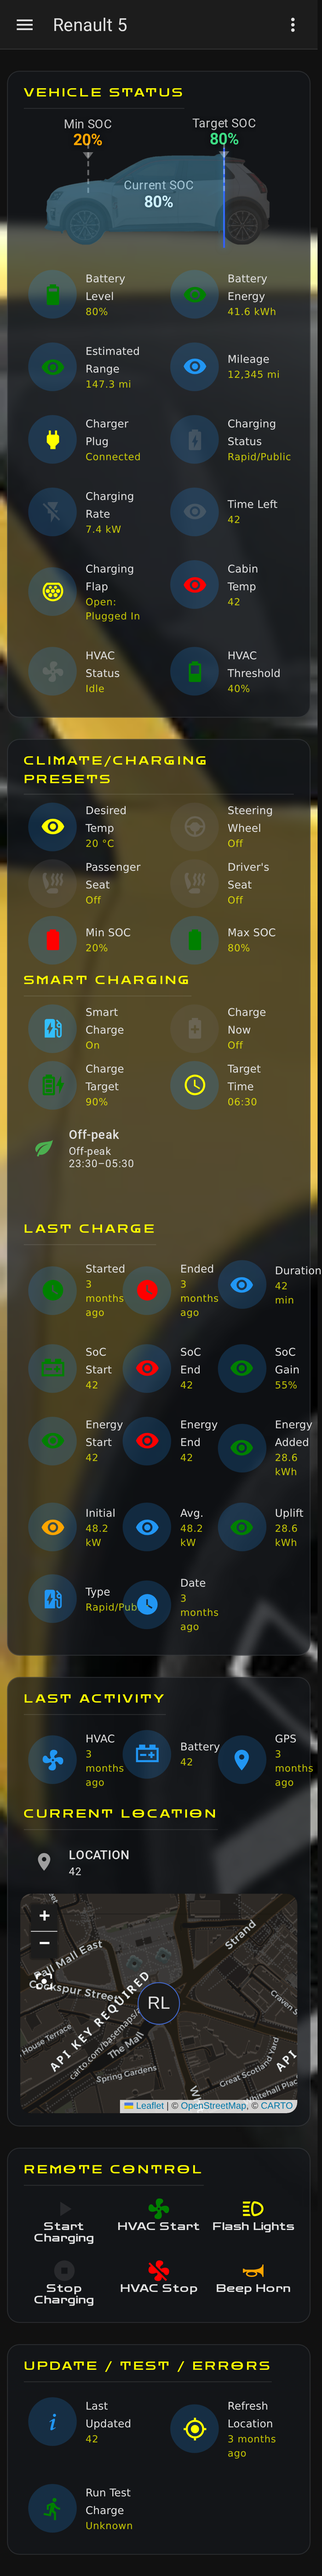
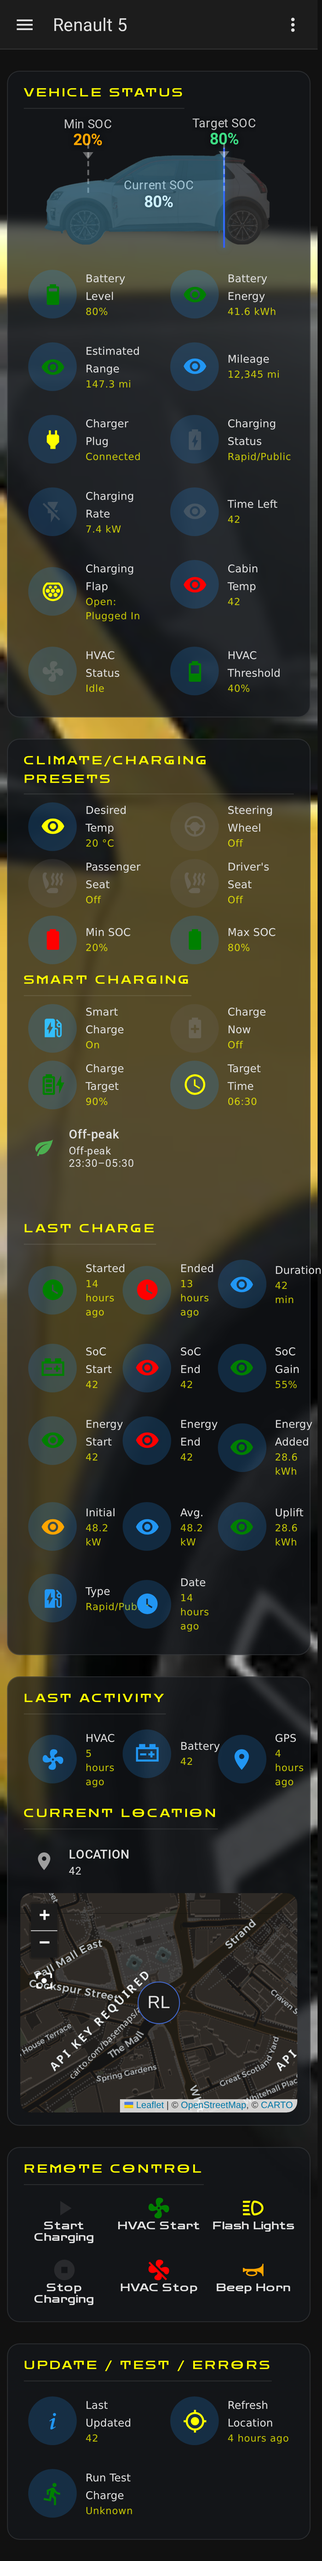
ci: stop CI writing to PR branches, and freeze the render's moving parts (#80)
* ci: stop CI writing to PR branches, and freeze the render's moving parts

Mirrors a290 #118. Closes the last lockstep gap from today's CI work.

RACE REMOVAL

refresh-screenshots committed refreshed PNGs to the PR head via a GitHub App
token, which races the author: push -> render differs -> bot commits -> head
moves -> the push is rejected non-fast-forward, or the CLEAN verdict just read
is invalidated and the merge refused. On the A290 twin that rejected three
pushes in one session, twice mid-merge, and moved the head five times across
the two repos. The [refresh-shots] guard only stopped the bot re-triggering
ITSELF; it did nothing about a human merging that commit and pushing again.

It now reports drift and attaches the regenerated PNGs as an artifact. It
writes nothing. The App token and its contents:write scope are gone from CI
entirely, which also removes the write credential that sat in the same job as
a Pillow decode of PR-controlled images. commit_screenshots.py is deleted.

DETERMINISM (partial, and measured on the twin)

The dashboards run infinite CSS animations, so the page never stops moving and
no settling time can capture it reproducibly. Frozen with reduced_motion on
the context and animations="disabled" on all three capture calls.

The seed hard-coded June 2026 timestamps for device_class:timestamp sensors,
which mushroom renders as relative text - so the pixels changed whenever the
[…]

diff --git a/ui-tests/check_overflow.py b/ui-tests/check_overflow.py
@@ -163,7 +163,14 @@ def run():
                 viewport={"width": dev["width"], "height": dev["height"]},
                 device_scale_factor=dev.get("deviceScaleFactor", 2),
                 is_mobile=dev.get("isMobile", True), has_touch=dev.get("hasTouch", True),
-                color_scheme=colour_scheme, user_agent=ua)
+                color_scheme=colour_scheme, user_agent=ua,
+                # The dashboards run infinite CSS animations (pulse, spin, flap-wiggle,
+                # socFillToTarget). A page that never stops moving cannot be captured
+                # reproducibly and no settling time fixes it — every shot samples a different
+                # frame. On the A290 twin the committed screenshots oscillated between two byte
+                # sizes all day because of this. reduced_motion asks the page not to start them;
+                # screenshot(animations="disabled") freezes anything that ignores the preference.
+                reduced_motion="reduce")
             ctx.add_init_script(init)
             page = ctx.new_page()
             for dash in args.dashboards:
@@ -192,7 +199,7 @@ def run():
                         # Drop HA's startup toasts only AFTER the truncation scan, so removing the
                         # toast node can never perturb the gate's measurement — it only cleans the shot.
                         page.evaluate(JS_DISMISS_TOASTS)
-                        page.screenshot(path=shot, full_page=True)
+                        page.screenshot(path=shot, full_page=True, animations="disabled")
                         break
                     except Exception as err:
                         # A render error here is transient (auto-open context teardown / font-wait
@@ -207,7 +214,7 @@ def run():
                         issues = [{"type": "render-error", "tag": "-", "text": f"{type(err).__name__}: {err}"}]
                         try:
                             page.evaluate(JS_DISMISS_TOASTS)
-                            page.screenshot(path=shot, full_page=True)
+                            page.screenshot(path=shot, full_page=True, animations="disabled")
                         except Exception:
                             pass
                 # The Smart Charging pop-up ("tab") capture is best-effort and ISOLATED from the
@@ -225,7 +232,7 @@ def run():
                         page.wait_for_timeout(800)
                         page.evaluate(JS_DISMISS_TOASTS)
                         pshot = os.path.join(args.out, f"{dash}__smart_charging__{slug}.png")
-                        page.screenshot(path=pshot, full_page=True)
+                        page.screenshot(path=pshot, full_page=True, animations="disabled")
                         issues += _stable_issues(page)
                     except Exception as err:
                         print(f"    pop-up capture skipped ({type(err).__name__}) — not failing the gate")

diff --git a/ui-tests/seed.py b/ui-tests/seed.py
@@ -13,12 +13,18 @@ import asyncio
 import os
 import re
 import sys
+from datetime import datetime, timedelta, timezone
 
 import aiohttp
 import yaml
 
 HERE = os.path.dirname(os.path.abspath(__file__))
 DASH_DIR_DEFAULT = os.path.join(HERE, "..", "renault_5", "dashboards")
+def _ago(**delta):
+    """An ISO timestamp `delta` before now, for entities the frontend renders as relative time."""
+    return (datetime.now(timezone.utc) - timedelta(**delta)).isoformat()
+
+
 DASHBOARDS = {"renault-5": "front-end.txt", "renault-5-bubble": "front-end-bubble.txt"}
 APP_DIR = os.path.join(HERE, "..", "renault_5", "app")
 
@@ -84,10 +90,19 @@ KNOWN = {
     "sensor.r5_last_charge_duration": ("42", {"unit_of_measurement": "min"}),
     "sensor.r5_last_charge_soc_recovered": ("55", {"unit_of_measurement": "%"}),
     "sensor.r5_last_charge_energy_recovered": ("28.6", {"unit_of_measurement": "kWh"}),
-    "sensor.r5_last_charge_start": ("2026-06-26T18:04:00+00:00", {"device_class": "timestamp"}),
-    "sensor.r5_last_charge_end": ("2026-06-26T18:46:00+00:00", {"device_class": "timestamp"}),
-    "sensor.r5_hvac_last_activity": ("2026-06-27T08:50:00+00:00", {"device_class": "timestamp"}),
-    "sensor.r5_gps_last_activity": ("2026-06-27T09:10:00+00:00", {"device_class": "timestamp"}),
+    # Timestamps are seeded RELATIVE to the run, not as fixed dates. A device_class:timestamp
+    # sensor is rendered by mushroom as relative text ("2 months ago"), so a hard-coded date
+    # produces different PIXELS as the wall clock moves past each unit boundary — fine for an
+    # overflow check, fatal for comparing a screenshot against a committed one.
+    #
+    # Offsets are xx:12, NOT xx:30: half-past is exactly the rounding boundary, so if the
+    # frontend rounds to nearest rather than truncating, a few seconds of drift between seeding
+    # and capture flips "3 hours ago" to "4 hours ago" and changes the pixels. xx:12 reads the
+    # same under either rule with ~12 minutes of slack.
+    "sensor.r5_last_charge_start": (_ago(hours=14, minutes=12), {"device_class": "timestamp"}),
+    "sensor.r5_last_charge_end": (_ago(hours=13, minutes=12), {"device_class": "timestamp"}),
+    "sensor.r5_hvac_last_activity": (_ago(hours=5, minutes=12), {"device_class": "timestamp"}),
+    "sensor.r5_gps_last_activity": (_ago(hours=4, minutes=12), {"device_class": "timestamp"}),
     # Demo Octopus Intelligent charger entities (Smart Charging block / bubble pop-up).
     "switch.demo_intelligent_smart_charge": ("on", {"icon": "mdi:ev-station"}),
     "switch.demo_intelligent_bump_charge": ("off", {"icon": "mdi:battery-plus-variant"}),

diff --git a/renault_5/tests/test_api_contract.py b/renault_5/tests/test_api_contract.py
@@ -70,3 +70,44 @@ def test_charges_model_contract():
     assert lc["last_charge_end_soc"] == 80
     assert lc["last_charge_recovered_pct"] == 45
     assert lc["last_charge_duration_min"] == 180   # 3 h from start/end timestamps
+
+
+def test_soc_levels_model_contract():
+    """The charge-limit chain, end to end: API field -> data key -> published entity_id.
+
+    Mirrors the a290 twin's test, which was added after DOCS.md there documented
+    `number.alpine_a290_soc_min_target` / `_soc_max_target` — THIS repo's ids, mirrored across
+    without porting them. The lockstep rule cuts both ways, and nothing caught it.
+
+    The payload below is the REAL captured response from renault-api's own fixture
+    (`tests/fixtures/kamereon/vehicle_kcm_data/ev-soc-levels.json`), loaded through the
+    library's own schema. `soc-levels` is declared for R5E1VE in `_VEHICLE_ENDPOINTS`.
+    """
+    import re
+
+    import catalog
+
+    soc = schemas.KamereonVehicleBatterySocDataSchema.load(
+        {"lastEnergyUpdateTimestamp": "2025-04-18T06:51:09Z", "socMin": 20, "socTarget": 80})
+    assert soc.socMin == 20
+    assert soc.socTarget == 80
+
+    # Data keys must equal object_id minus the prefix, or the MQTT value_template resolves to
+    # nothing and the slider renders unavailable.
+    keys = {o[len(catalog.OBJ_PREFIX):] for o in catalog.NUMBERS}
+    assert keys == {"soc_min_target", "soc_max_target"}, keys
+
+    # HA ignores the discovery object_id and derives slug(device name + friendly name). These
+    # ids differ from the a290's on purpose — this repo keeps the original forked view's entity
+    # names for backward compatibility, which is exactly why a mirrored doc passage is wrong.
+    def slug(text):
+        return re.sub(r"_+", "_", re.sub(r"[^a-z0-9]+", "_", text.lower())).strip("_")
+
+    device = catalog.DEVICE["name"]
+    ids = {slug(f"{device} {meta[0]}") for meta in catalog.NUMBERS.values()}
+    assert ids == {"r5_soc_min_target", "r5_soc_max_target"}, ids
+
+    # The real captured values must sit inside the ranges the sliders advertise.
+    ranges = {o[len(catalog.OBJ_PREFIX):]: (m[2], m[3]) for o, m in catalog.NUMBERS.items()}
+    assert ranges["soc_min_target"][0] <= soc.socMin <= ranges["soc_min_target"][1]
+    assert ranges["soc_max_target"][0] <= soc.socTarget <= ranges["soc_max_target"][1]

diff --git a/ui-tests/README.md b/ui-tests/README.md
@@ -41,14 +41,29 @@ PYTHON=/path/to/venv/bin/python bash ui-tests/run.sh
 Screenshots land in `ui-tests/screenshots/` (git-ignored; uploaded as a CI artifact). In CI
 this is the **UI Tests** workflow, which runs whenever the dashboards or this harness change.
 
-## Docs-screenshot auto-refresh
+## Docs-screenshot drift report
 
 On a PR, a trusted `workflow_run` companion (`.github/workflows/refresh-screenshots.yaml`)
-downloads the rendered artifact and, if it differs from the committed docs shots, commits the
-refreshed PNGs back to the PR branch via the GraphQL `createCommitOnBranch` mutation (see
-`commit_screenshots.py`). That mutation web-flow-signs the commit (**Verified**), so it satisfies
-the branch's "require signed commits" rule with no signing key in CI. The write credential is a
-short-lived **GitHub App installation token** minted per-run (App `a290-r5-screenshot-committer`,
-`Contents: write` only) — no long-lived PAT to renew. Because the App is a separate identity, its
-push still re-triggers the PR's required checks; a `[refresh-shots]` message guard stops the
-re-triggered run from committing again.
+downloads the rendered artifact, resizes the phone shots, and reports whether they differ from
+the committed `docs/screenshots/`. If they do, the regenerated PNGs are attached to the run as
+the **regenerated-screenshots** artifact; download and commit them yourself if the change is
+real. It writes a job summary and nothing else.
+
+**It does not commit, and it never fails the build.** Both are deliberate.
+
+It used to commit refreshed PNGs to the PR head via a GitHub App token, and that raced whoever
+was working on the PR: push → render differs → bot commits → head moves → your push is rejected
+non-fast-forward, or the `CLEAN` verdict you just read is invalidated and the merge refused. On
+the A290 twin that rejected three pushes in one session, twice mid-merge, and moved the head
+five times across the two repos. The `[refresh-shots]` guard only stopped the bot re-triggering
+*itself*; it did nothing about a human merging that commit and pushing again. CI writing to a
+branch a human is working on **is** the race, so CI no longer writes to it — the App token and
+its `Contents: write` scope are gone from the workflow entirely.
+
+It reports rather than failing because **the render is not yet reproducible**. Measured on the
+A290 twin: two consecutive runs of identical code against the same seed produced 10 of 30
+screenshots differing, two at different page *dimensions*. Freezing the CSS animations
+(`animations="disabled"` plus `reduced_motion`) and anchoring the seeded timestamps to run time
+fixed the fast oscillation; the remaining layout settling must be solved before this can become
+a required drift gate. **Treat the committed screenshots as UNTESTED** — a plausible picture,
+not a verified one.

diff --git a/CLAUDE.md b/CLAUDE.md
@@ -49,7 +49,9 @@ ruff.toml / repository.yaml / README.md / LICENSE
 ## Dependencies
 
 `renault_5/app/requirements.txt` — all pinned, keep them pinned:
-`renault-api==0.5.12`, `paho-mqtt==2.1.0`, `PyYAML==6.0.3`.
+`renault-api==0.5.13`, `paho-mqtt==2.1.0`, `PyYAML==6.0.3`. Pinned in BOTH
+`requirements.in` (the source) and `requirements.txt` (hash-locked) — bump both, or the next
+regeneration silently reverts the one you missed.
 
 **Do not bump `renault-api` casually.** Per-model endpoint support is hard-coded in the
 library at `renault_api/kamereon/models.py` → `_VEHICLE_ENDPOINTS` (R5 is model `R5E1VE`,
